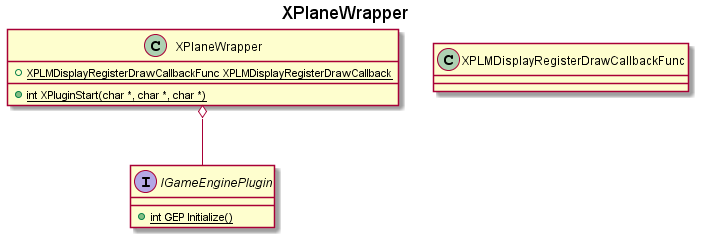
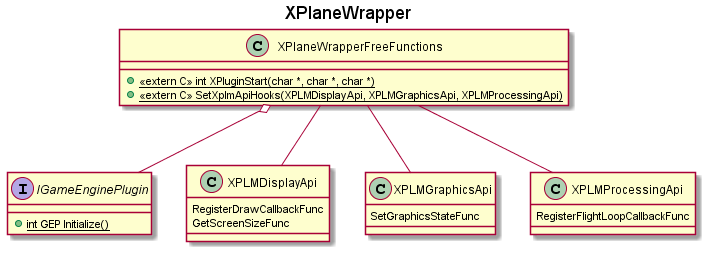
updating design with api structs, flight loop

diff --git a/GameEnginePlugin/Docs/SimpleGameEnginePlugin-Overview.md b/GameEnginePlugin/Docs/SimpleGameEnginePlugin-Overview.md
@@ -24,4 +24,4 @@ A host application ingests instances of a game engine plugin and interacts with 
 
 ![](./XPlaneWrapper.png)
 
-![](./GameEnginePlugin-XPlaneIntegration.png)
+![](./XPlaneWrapper-Initialization.png)
